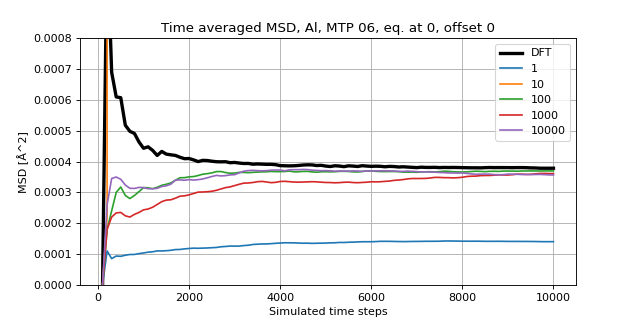
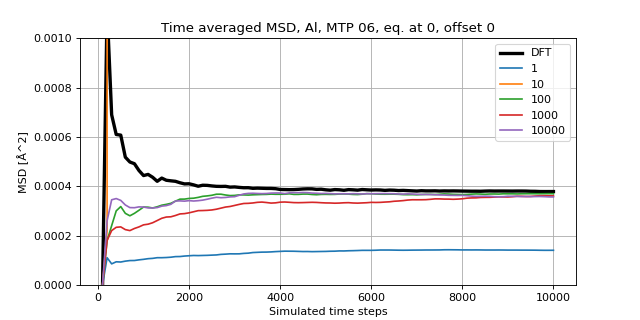
updated scale on etot eq 0 and 2000 offset 0

diff --git a/visualization.py b/visualization.py
@@ -631,8 +631,8 @@ if __name__ == "__main__":
     #plot_test('Al', 'eq_2000', '06', True)
 
     mtps = ['06']
-    eqs = ['eq_0']
-    offsets = [2000]
+    eqs = ['eq_0', 'eq_2000']
+    offsets = [0]
     
     for mtp in mtps:
         for eq in eqs:
